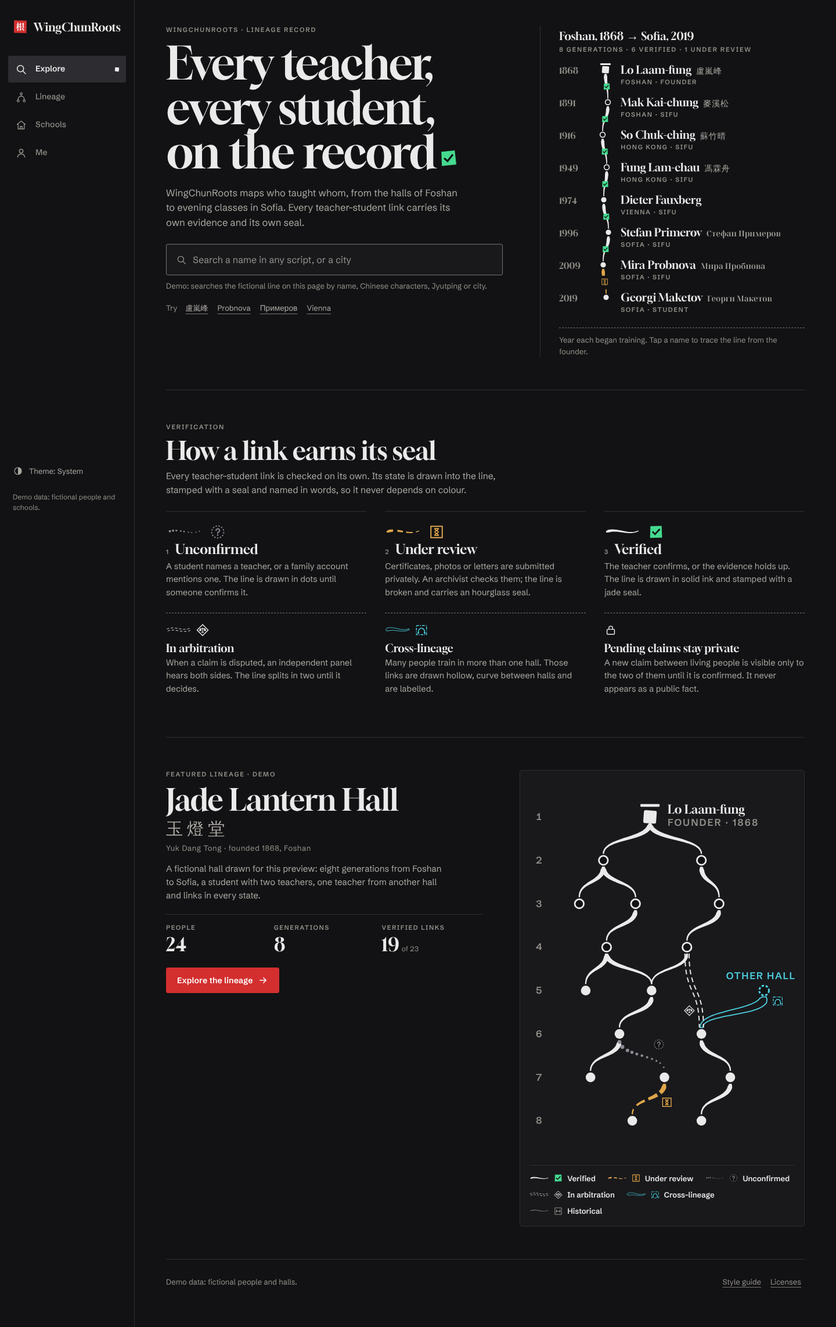
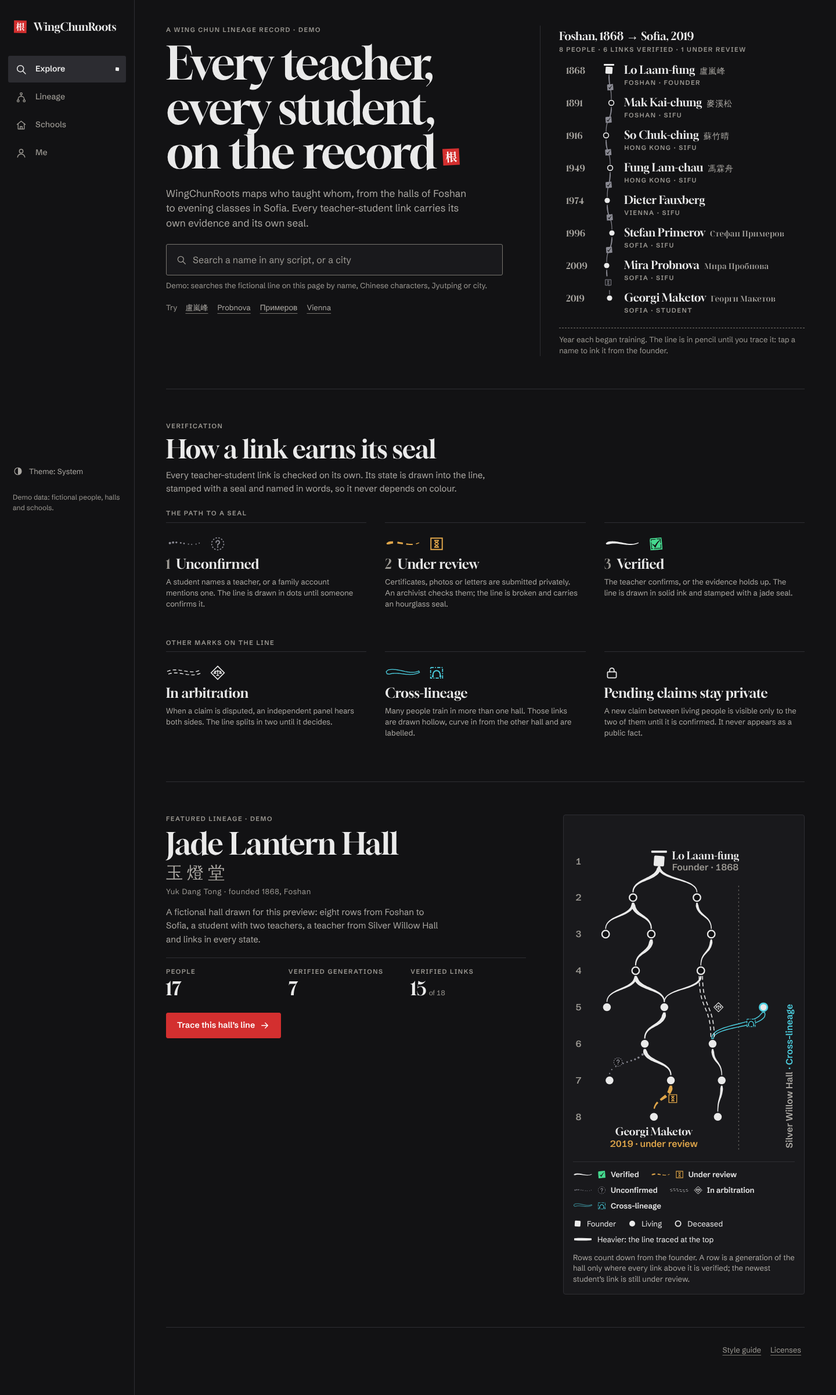
docs(m00b): ADRs, guides, direction and owner question after review
ADR 0006 records the type and space scales, the new roles, the seal
chop, the pencil draft and ink trace, the sheet presentations, dialog,
toast and danger button, the Lighthouse script that replaced lhci, the
notices sources, the ESLint boundaries, INP deferred to M05 and the
deviations the review raised. ADR 0001, the README, both Bulgarian
guides and direction.md follow. Question 3 asks the owner about the
style guide budget, devtools throttling and the theme without
JavaScript. Screenshots regenerated.

Claude-Session: https://claude.ai/code/session_01STyQUAPRBBmWDHTxvJbxAV

diff --git a/docs/adr/0006-design-system.md b/docs/adr/0006-design-system.md
@@ -14,7 +14,11 @@ M00b превежда избраната дизайн посока в токен
 
 ## Решение
 
-1. **Един източник на токените.** `src/design/tokens.ts` описва семантичните роли от план §5.2 за двете теми и ролите, които посоката добавя (`fg-subtle`, `fg-inverse`, `on-brand`, `on-verified`, `arbitration`, `danger`), плюс приглушените тонове (план §4.7), печатните токени, шрифтовете, размерно съгласуваните резервни шрифтове, типографската скала, радиусите, мерките на обвивката, движението и стила на връзките по състояние. `pnpm tokens:build` (`scripts/build-tokens.ts` → `src/design/build.ts`) пише:
+1. **Един източник на токените.** `src/design/tokens.ts` описва семантичните роли от план §5.2 за двете теми и ролите, които посоката добавя (`fg-subtle`, `fg-inverse`, `on-brand`, `on-verified`, `arbitration`, `danger`, а след първия преглед и `surface-pressed`, `ink-hover`, `brand-pressed` за натиснатите и посочените състояния), плюс приглушените тонове (план §4.7), печатните токени, шрифтовете, размерно съгласуваните резервни шрифтове, типографската скала, пространството, радиусите, мерките на обвивката, движението и стила на връзките по състояние.
+
+   - **Типографска скала:** 15 стъпки — `caption` 11, `label` 12, `xs` 12, `sm` 13, `ui` 14, `base` 15, `field` 16 (полетата, за да не увеличава iOS страницата), `md` 17, `lg` 19, `xl` 23, `2xl` 28, `3xl` 32 px (числата в Gloock) и три плавни за заглавията (`section`, `feature`, `hero`). Произволни размери на текста (`text-[…px]`, `text-[…rem]`) в `src/app` и `src/components` са забранени; `scripts/verify.d/M00b.sh` ги търси. Единственото изключение е размерът спрямо заглавието (`em`), например печатът в края на заглавието на началната страница.
+   - **Пространство:** единица 4 px (`--spacing` на Tailwind), полета на страницата 16 px на телефон и 40 px от 768 px (`px-page`, никога по-малко от безопасната зона отляво и отдясно) и ритъм на секциите 40/56 px (`py-section`, `md:py-section-desktop`). Всичко това е и в `tokens.json` (`space`).
+   - **Печат и вариантът `dark:`** също идват от генератора: блокът `@media print` в `tokens.css` слага светлата тема и печатните токени върху всеки селектор на тема (и когато е избрана тъмната), а `@custom-variant dark` следва темата по подразбиране (`DEFAULT_THEME`). Шрифтът `mono` е в `fontFamilies`. `pnpm tokens:build` (`scripts/build-tokens.ts` → `src/design/build.ts`) пише:
    - `src/design/generated/tokens.css`: oklch с hex в коментар, двете теми (`:root`, `prefers-color-scheme`, `[data-theme]`, `.theme-dark`/`.theme-light` за панел в другата тема) и `@theme inline` за Tailwind 4.3.3, в който палитрата, шрифтовете, размерите, радиусите и сенките на Tailwind са изчистени: съществуват само семантичните токени;
    - `src/design/generated/tokens.json`: за бъдещото мобилно приложение (план §6.8), с изчислените съотношения на контраста.
 
@@ -25,14 +29,16 @@ M00b превежда избраната дизайн посока в токен
 
    | Състояние | Щрих | Печат | Текст |
    |---|---|---|---|
-   | Потвърдено | плътен, в мастило (`--fg`) | отметка в нефрит | „Verified“ |
+   | Потвърдено | плътен, в мастило (`--fg`) | нефритен печат, натиснат леко накриво, с ръб, „попил“ в хартията, и отметка с четка, издълбана в него (негатив); при 20 px и повече и издълбана рамка | „Verified“ |
    | В преглед | накъсан | пясъчен часовник | „Under review“ |
    | Непотвърдено | пунктир от точки | „?“ | „Unconfirmed“ |
    | Арбитраж | двоен | везни | „In arbitration“ |
    | Учител от друга линия | куха крива; очертанието носи пунктира на състоянието ѝ (потвърдената е плътна), а в тънък щрих (`--link-cross-lineage-dash`) е `9 3 2 3` | мост | „Cross-lineage“ |
    | Приключило обучение | тънък плътен | точка | „Historical“ |
 
-   Щрихът на всяко състояние е в неговия цвят, освен потвърденото: то се рисува в мастило, а цвета носи печатът (`strokeColor` в `linkStyles`; Ink Lineage). Легендата (`src/components/ink/legend.tsx`) рисува същите щрихи като дървото и е винаги видима, където има връзки.
+   Щрихът на всяко състояние е в неговия цвят, освен потвърденото: то се рисува в мастило, а цвета носи печатът (`strokeColor` в `linkStyles`; Ink Lineage). Легендата (`src/components/ink/legend.tsx`) рисува същите щрихи като дървото, показва само състоянията, които рисунката до нея ползва (`legendKinds`), и е винаги видима, където има връзки.
+
+   **Приглушаване** (план §4.7, никога с прозрачност). Печатът има `tone="dim"`: същата форма в плътния приглушен тон (`--dim-stroke`), без цвета на състоянието. Линията на началната страница е „чернова с молив“, докато човек не я проследи: тънки щрихи в приглушения тон със същия рисунък и „призрачни“ печати. Проследяването я изписва с мастило от основателя до избрания човек — щрих по щрих, после всеки печат в цвета на състоянието си. Редовете след избрания остават в черновата и слизат с един тон надолу (`ROW_TONE_ROLES` в `trace-line.tsx`: годината от `fg-muted` към `fg-subtle`, името от `fg` към `fg-muted`), така че приглушен ред никога не е по-ярък от активен (`trace-line.test.ts`). Избраният ред има мастилена черта 3 px отляво, по-голям възел и `aria-current`.
 5. **Шрифтове** (план §5.3), самостоятелно хостнати през `next/font/local` от пакетите `@fontsource` (SIL OFL 1.1), едно извикване на подмножество, така че всеки `@font-face` има свой `unicode-range` и браузърът тегли подмножество само ако страницата има знак от него (`src/design/fonts.ts`):
 
    | Употреба | Шрифт | Файлове (woff2) | Зареждане |
@@ -44,16 +50,25 @@ M00b превежда избраната дизайн посока в токен
 
    Резервните шрифтове `Gloock Fallback` и `Schibsted Grotesk Fallback` са местни системни шрифтове с `size-adjust` и `ascent/descent/line-gap-override`, изчислени от файловете на шрифтовете (`src/design/fonts.test.ts` ги преизчислява с fontkit на Next.js), за да няма разместване (CLS), докато уеб шрифтовете се зареждат. Най-малкият надпис е 11 px (`MIN_LABEL_PX`); поколенията и годините са с арабски, таблични цифри.
 6. **Теми.** Тъмната е по подразбиране; страницата следва `prefers-color-scheme`, докато човек не избере ръчно. Изборът е в бисквитката `wcr-theme` (`dark` или `light`; без бисквитка значи „като системата“), година, `SameSite=Lax`. Малък вграден скрипт в `<head>` (`THEME_SCRIPT` в `src/design/theme.ts`) слага `data-theme` на `<html>` и насочва двата `<meta name="theme-color">` към избраната тема, преди първото изрисуване. `color-scheme` е зададен за всяка тема, а `viewport.colorScheme` е `dark light`.
-7. **Компоненти.** shadcn/ui върху Base UI 1.9.0 (`components.json`, стил `base-nova`), оформени по посоката, в `src/components/ui/`: Button, Input, Dialog, Drawer (долен панел с надникване 96 px, половин и цял екран, влачене за цялото тяло и бутони „Expand“/„Collapse“/„Close“ като алтернатива), Menu, Tabs, Toast, Skeleton, StatusBadge и TrailChip. Навсякъде `render`, никога `asChild` (`scripts/verify.d/M00b.sh` го проверява). Отворен панел или диалог добавя запис в историята (`use-back-to-close.ts`), затова бутонът „Назад“ на Android затваря най-горния слой. `/styleguide` (`noindex`) показва токените и компонентите в двете теми.
+7. **Компоненти.** shadcn/ui върху Base UI 1.9.0 (`components.json`, стил `base-nova`), оформени по посоката, в `src/components/ui/`: Button, Input, Dialog, Drawer (долен панел на телефон, страничен панел вдясно от 768 px; виж т. 7а), Menu, Tabs, Toast, Skeleton, StatusBadge и TrailChip. Button има вариант `danger` за разрушителни действия (рамка и надпис в `--danger`, не в червеното на марката) и натиснат тон за всеки вариант, една стъпка след посочения. Toast е „листче“ върху `surface-2` с черта 3 px в цвета на вида (`verified`, `under_review`, `info`), печат за състоянието и 10 s до затваряне (паузира при посочване, фокус и докосване). Dialog е центриран от 640 px, с линия под заглавието; когато е по-висок от екрана, превърта целият изглед, така че заглавието и „Close“ остават достъпни. Менюто се рисува в `<main>`, за да остане всичко в ориентир (axe „region“). Навсякъде `render`, никога `asChild` (`scripts/verify.d/M00b.sh` го проверява). Отворен панел или диалог добавя запис в историята (`use-back-to-close.ts`), затова бутонът „Назад“ на Android затваря най-горния слой. `/styleguide` (`noindex`) показва токените и компонентите в двете теми.
 8. **Обвивка** (`src/components/shell/`). Телефон: горна лента (56 px) и четири раздела долу (64 px плюс безопасната зона): Explore, Lineage, Schools, Me. Компютър: странична лента 232 px. `viewport-fit=cover` и `env(safe-area-inset-*)`, `min-h-dvh` (никъде `100vh` или `h-screen`), цели за докосване поне 44×44 px, нищо само при посочване, връзка „Skip to content“. Разделите на бъдещите маршрути (`/explore`, `/schools`, `/dashboard`) засега водят до страницата „not drawn yet“ (404) и не се зареждат предварително.
 9. **Движение.** 150/200/250 ms с `ease-out`; проследяването с мастило до основателя върви само след докосване, по 110 ms на поколение и общо до 1 s, и никога не спира въвеждането. Нищо не тръгва само. При `prefers-reduced-motion: reduce` всички продължителности са 0 ms.
+7а. **Долен и страничен панел (Drawer).** На телефон модалният панел (по подразбиране) се отваря на половин височина, където се вижда затъмнението зад него; спира на половин и цял екран (`MODAL_SNAP_POINTS`). Затъмнението е плътно на всяка точка на спиране и избледнява само при отваряне и затваряне. Немодалният панел (над карта или граф) се отваря „надникнал“: поне 96 px и никога по-нисък от собствената си заглавна част, така че заглавие на два реда при 150 % текст се вижда цяло; спира на надникване, половин и цял екран (`PEEK_SNAP_POINTS`). Той стои над долните раздели, които пазят безопасната зона, така че навигацията остава достъпна, а докато надниква, тялото му е `inert` и клавиатурата не стига до съдържание извън екрана. Влаченето е за цялото тяло; „Expand“/„Collapse“ и „Close“ са алтернативата. Всяко отваряне започва от първата точка. От 768 px същият компонент е страничен панел вдясно, широк `--sheet-w` (420 px) и висок колкото прозореца, който се плъзга надясно; това е мястото, където M05 ще показва доказателствата (Living Archive).
 10. **Бюджети и автоматични проверки.**
-    - `scripts/check-bundle-budget.mjs` след `next build`: първоначално зареденият JavaScript на всеки маршрут, gzip, ≤ 170 kB (1 kB = 1000 байта). Брои основните файлове от `build-manifest.json` и всички клиентски входове на маршрута от `*_client-reference-manifest.js` без страницата за глобална грешка и проверява срещу `<script src>` в предварително рендерирания HTML, така че промяна в манифестите на Next.js не може незабелязано да намали броенето. Към 17.10.2026: `/` 159,7 kB, `/legal/licenses` и `/_not-found` 147,7 kB, `/styleguide` 238,9 kB от своите 250 kB.
-    - Lighthouse CI (`@lhci/cli` 0.15.1, `lighthouserc.json`) за `/` в мобилен профил, три пускания, медианата: LCP < 2,5 s и CLS < 0,1. `scripts/verify.d/M00b.sh` пуска собствен `next start` и печата LCP и CLS.
-    - `e2e/routes.ts` е списъкът на страниците; `e2e/a11y.spec.ts` пуска axe на всяка от тях в двете теми.
-    - Визуална регресия (`e2e/visual.spec.ts`, таг `@visual`, проект `visual`) за `/` и `/styleguide` при 390×844 и 1440×900 в двете теми. Върви само в CI, където Chromium е точно версията на закачения Playwright. Базовите снимки са в `e2e/__screenshots__/visual.spec.ts/*-linux.png` и се сменят само с commit (`docs/guides/admin-guide.bg.md`, „Визуална регресия“).
+    - `scripts/check-bundle-budget.mjs` след `next build`: първоначално зареденият JavaScript на всеки маршрут, gzip, ≤ 170 kB (1 kB = 1000 байта). Брои основните файлове от `build-manifest.json` и всички клиентски входове на маршрута от `*_client-reference-manifest.js` без страницата за глобална грешка и проверява срещу `<script src>` в предварително рендерирания HTML, така че промяна в манифестите на Next.js не може незабелязано да намали броенето. Към 17.10.2026 (след първия преглед): `/` 161,5 kB, `/legal/licenses` и `/_not-found` 146,4 kB, `/styleguide` 240,5 kB от своите 250 kB.
+    - Lighthouse 13.4.1 за `/` в мобилен профил (`scripts/lighthouse.mjs` с `chrome-launcher` 1.2.1; праговете са в `lighthouserc.json`), три пускания, медианата: LCP < 2,5 s и CLS < 0,1. `scripts/verify.d/M00b.sh` и CI пускат собствен `next start` и печатат LCP и CLS. Скриптът замени `@lhci/cli` 0.15.1: последното му издание е от юни 2025, заключва Lighthouse 12.6.1 и внасяше в дървото за разработка осем известни уязвимости (пет високи), които `pnpm audit --prod` не вижда. `lighthouse` 13.4.1 изисква `puppeteer-core` с уязвим `basic-ftp`; `pnpm-workspace.yaml` го насочва към `puppeteer-core` 25.12.0 (`overrides`), който Lighthouse ползва само за потребителски потоци, не и за един URL.
+    - INP (план §5.8 (в)) още не се мери: в M00b няма ключово взаимодействие с данни, а панелът и проследяването са демонстрации. Тестът с web-vitals и 4× забавяне на процесора идва в M05 с изследователя и истинския панел на човек.
+    - `e2e/routes.ts` е списъкът на страниците; `e2e/a11y.spec.ts` пуска axe на всяка от тях в двете теми. `e2e/ui.spec.ts` пуска axe и с отворени диалог, панели, меню и toast, и проверява поведението, което няма как да се види на снимка: „Назад“ затваря диалога и панела, без да оставя запис в историята, надникването и тялото `inert`, затъмнението на модалния панел, страничния панел от 768 px, текст при 150 % (редовете, разделите, заглавието на панела), полетата поне 16 px, нито един надпис под 11 px на `/` от 320 px до компютър (рисунката на залата също), връзката „Skip to content“ над безопасната зона, раздела Lineage след хидратация и проследяването с мастило (и при намалено движение).
+    - Шрифтовете (`e2e/smoke.spec.ts`): предварително се зареждат точно двата latin файла; Noto Serif Display се тегли веднъж на `/` (има кирилско име) и изобщо не на `/legal/licenses`.
+    - Визуална регресия (`e2e/visual.spec.ts`, таг `@visual`, проект `visual`) за `/` и `/styleguide` при 390×844 и 1440×900 в двете теми. Китайските знаци (системни шрифтове, различни на различните машини) и текстът на подсказките стават прозрачни чрез `stylePath` (`e2e/visual.css`), вместо да се закриват с маска, която закриваше и долните раздели. Върви само в CI, където Chromium е точно версията на закачения Playwright. Базовите снимки са в `e2e/__screenshots__/visual.spec.ts/*-linux.png` и се сменят само с commit (`docs/guides/admin-guide.bg.md`, „Визуална регресия“).
     - `@screenshots` (`pnpm screenshots`) записва `docs/screenshots/M00b/`.
-11. **Лицензи.** `pnpm notices` (`scripts/generate-notices.ts`) генерира `THIRD_PARTY_NOTICES.md` и `src/app/legal/licenses/notices.json` от `pnpm licenses list --json --prod` и от файловете в `licenses/addenda/`; CI проверява, че са актуални (`--check`). Страницата `/legal/licenses` ги показва.
+11. **Лицензи.** `pnpm notices` (`scripts/generate-notices.ts`, помощните функции в `scripts/lib/notices.ts` с тестове) генерира `THIRD_PARTY_NOTICES.md` и `src/app/legal/licenses/notices.json`; CI проверява, че са актуални (`--check`). Източниците са три:
+    - `pnpm licenses list --json --prod`;
+    - пакетите за разработка, чийто генериран код стига до браузъра (`SHIPPED_BUILD_OUTPUT`: `tailwindcss` — preflight и слоевете му са във всеки CSS файл, а production сборката маха банера с лиценза);
+    - файловете в `licenses/addenda/`: за пакети, които `--prod` пропуска, защото са незадължителни (`optionalDependencies`). Такъв е `sharp` на Next.js с двоичния `libvips` (LGPL-3.0-or-later). Генераторът спира, ако заглавието на добавката не съвпада с версиите в lockfile-а.
+
+    Еднаквите текстове на лицензи се пазят веднъж и всеки пакет сочи към своя („Licence text N“, „Used by“). Страницата е 0,9 MB HTML (114 KB gzip) вместо 1,06 MB, а връзките към нея и към `/styleguide` не се зареждат предварително (`prefetch={false}`). Начална страница на пакет се показва като връзка само ако е `http` или `https`.
+12. **Граници в ESLint.** `@base-ui/react` само в `src/components/ui/`; `tailwind-merge` (`@/lib/utils`) не и в кода, който се зарежда на всяка страница (обвивката, началната страница, мастилото); `next/font/google` е забранен, а `src/design/` е без React и Next.js (освен `fonts.ts` и `theme.ts`). Tailwind сканира само `src/` (`@import 'tailwindcss' source('../')`), без `notices.json`, а `scripts/verify.d/M00b.sh` проверява, че в готовия CSS няма `100vh`.
 
 ## Отклонения
 
@@ -64,7 +79,8 @@ M00b превежда избраната дизайн посока в токен
 | `--verified` | планът: `#00E676`; прототипът: червен печат | нефритено `#45D98F` (тъмна), `#0A6E43` (светла) | Червеното остава за марката и основното действие; `#00E676` е крещящо до спокойната палитра. Ролята и контрастът (10,31:1 и 5,30:1) са запазени. Отворен въпрос към собственика |
 | `--review` | `#F5B83D` | `#E0A64A` (тъмна), `#7C5300` (светла) | По-топъл охрен тон до нефрита; 8,66:1 и 5,69:1 |
 | `--fg-muted`, `--surface-1`, `--surface-2`, `--surface-3`, `--border-*` | `#A1A1AA`, `#1C1C1F`, `#2A2A2E`, `#34343A`, `#3A3A40`, `#76767F` | `#ABA8A3`, `#19191C`, `#222226`, `#2C2C31`, `#2E2E33`, `#78756F` | Топло сиво „мастило“ вместо студено; всяка двойка минава праговете (виж `tokens.json`) |
-| `--fg-subtle` | няма | `#94918B` / `#64615C` | Надписи и редове с мета данни; ≥ 4,5:1 върху фона и двете повърхности |
+| `--fg-subtle` | няма | `#9C9993` / `#64615C` | Надписи и редове с мета данни; ≥ 4,5:1 върху фона, двете повърхности и `surface-3` (посочен ред) |
+| `--danger` | „грешки“ | `#FF8AB8` / `#9B1B5A` | Розово-винен тон, поне 25° по оттенък от червеното на марката, така че грешка до основния бутон не се чете като „още червено“; винаги и със знака × и текст |
 | `--brand-fg` | „червен текст, връзки и икони“ | само акценти в марката | Червеното не е връзка и не е избор |
 | Светла тема | от печатните токени (`--paper` `#FDFBF7`) | фон `#EDEBE5` („оризова хартия“), повърхности до `#FFFDF9` | Картите и панелите трябва да се отличават от фона; печатните токени са непроменени |
 | Радиус | 10 px | 2–6 px, горният ръб на долния панел 18 px | Остри ъгли „като на хартия“ от прототипа |
@@ -74,6 +90,9 @@ M00b превежда избраната дизайн посока в токен
 | shadcn CLI | `pnpm dlx shadcn@4.21.5 init -b base` | `components.json` и компонентите са написани ръчно по раздела Base UI на документацията на shadcn | `ui.shadcn.com` е недостъпен от облачната среда (проксито отказва връзката), а CLI-то тегли регистъра оттам |
 | Превключвател на темата | меню | роден `<select>` върху иконата (телефон) или реда „Theme: …“ (компютър) | Платформеният избор работи най-добре на телефон и в webview, без JavaScript за меню в обвивката (бюджетът) |
 | Toast и Menu | доставчикът на Toast и менюто на темата в обвивката | доставчикът е в страницата, която го ползва; темата е роден `<select>` | Кодът на Base UI за Toast и Menu в обвивката се зареждаше на всеки маршрут и го изкарваше над бюджета от 170 kB |
+| Основното действие на началната страница | „Explore the lineage“ → `/explore` | „Trace this hall’s line“ проследява линията горе на страницата; без JavaScript е връзка към нея (`#demo-line`) | `/explore` е изследователят (M05, план §5.5) и засега е страницата „not drawn yet“. Червено действие, което води до задънена улица, е най-видимият знак за недовършен сайт. Разделът Lineage остава `/explore`; той става текущ след хидратация на страницата „not drawn yet“ |
+| Тема без JavaScript | „сървърът рендерира избора“ | без JavaScript страницата следва системата и изборът не действа | Следва от реда „Тема без премигване“. Заглавието на теста от „Кога е готово“ не е сменено; отклонението е въпрос 3 в `questions/M00b.md` |
+| Два `theme-color` | — | остават двата `<meta>` на React с `media`; скриптът сменя само `content` | Друг подход променя проверките от „Кога е готово“ (тестът чете `theme-color` при първото изрисуване). Цветът на браузъра е верен; ще се преразгледа, ако някой браузър покаже грешен |
 | `cn()` | `clsx` + `tailwind-merge` навсякъде | `cx` (само `clsx`) в обвивката и началната страница; `cn` в `src/components/ui/` | `tailwind-merge` е около 10 kB gzip; кодът, който се зарежда навсякъде, не смесва конфликтни класове |
 | Lighthouse | симулирано забавяне (Lantern) | `throttlingMethod: devtools` (бавен 4G, 4× CPU, мобилен профил) | Lantern изчислява LCP 2,78 s на localhost: песимистичният граф брои async скриптовете, които при реалното изрисуване вече са приключили. С приложеното забавяне LCP е около 1,7–1,8 s, а CLS 0. Прагът (2,5 s) не е променен |
 | Бюджет на `/styleguide` | 170 kB | 250 kB | Страница за разработчици и прегледа на дизайна с `noindex`, която показва всички изскачащи компоненти наведнъж. Не е маршрут със съдържание (план §5.8 (в)) |
@@ -93,12 +112,14 @@ M00b превежда избраната дизайн посока в токен
 | `@fontsource/gloock` | 5.3.0 | OFL-1.1 | Шрифтът за имена и заглавия |
 | `@fontsource-variable/schibsted-grotesk` | 5.3.0 | OFL-1.1 | Шрифтът на интерфейса |
 | `@fontsource/noto-serif-display` | 5.3.0 | OFL-1.1 | Кирилицата в заглавията |
-| `@lhci/cli` | 0.15.1 | Apache-2.0 | Lighthouse CI (Lighthouse 12.6.1) за LCP и CLS на `/` (план §5.8 (в)); само за разработка |
+| `lighthouse` | 13.4.1 | Apache-2.0 | LCP и CLS на `/` в мобилен профил (план §5.8 (в)) чрез `scripts/lighthouse.mjs`; само за разработка. Замени `@lhci/cli` 0.15.1 (виж т. 10) |
+| `chrome-launcher` | 1.2.1 | Apache-2.0 | Пуска Chromium за `scripts/lighthouse.mjs` (в облачната сесия: `PW_CHROMIUM_EXECUTABLE`); само за разработка |
 
 ## Отворени въпроси към собственика
 
 1. **Посоката.** Ink Register или друга посока или смесица. Докато няма отговор, важи Ink Register.
 2. **Цветът на „Verified“.** Нефритено зелено (по подразбиране), червен печат като в прототипа (тогава червеното значи и марка, и потвърдено) или `#00E676` от плана. И трите минават контраста; статусът винаги има и форма, и текст.
+3. **Бюджетите и темата без JavaScript.** Бюджетът от 250 kB за `/styleguide`, Lighthouse с `devtools` вместо симулирано забавяне и темата, която без JavaScript следва системата (`questions/M00b.md`, въпрос 3).
 
 ## Решения по подразбиране
 
@@ -111,8 +132,11 @@ M00b превежда избраната дизайн посока в токен
 - Радиусите са 2–6 px; панелите 18 px.
 - Иконите са собствени SVG (`src/components/icons.tsx`), без библиотека с икони.
 - Шрифтовете идват като npm пакети (заключени в lockfile-а), не като копирани файлове.
-- Lighthouse с `devtools` забавяне, три пускания, медиана.
-- Бюджетът на `/styleguide` е 250 kB; 1 kB = 1000 байта.
+- Lighthouse с `devtools` забавяне, три пускания, медиана (въпрос 3 към собственика).
+- INP се мери от M05.
+- Модалният панел се отваря на половин височина; надникването е само за немодален панел.
+- Основното действие на началната страница проследява линията, докато изследователят (M05) не съществува.
+- Бюджетът на `/styleguide` е 250 kB; 1 kB = 1000 байта (въпрос 3 към собственика).
 - Разделите на бъдещите маршрути водят до страницата „not drawn yet“.
 - Знакът на активния раздел в навигацията и крайната спирка на основателя са в мастило (`--fg`), не в червено.
 - Базовите снимки на визуалната регресия идват само от CI.

diff --git a/docs/guides/user-guide.bg.md b/docs/guides/user-guide.bg.md
@@ -8,7 +8,7 @@
 
 WingChunRoots записва кой на кого е преподавал Wing Chun. В основата е мрежа от връзки „учител — ученик“: един ученик може да има няколко учители, а всяка връзка се проверява отделно и носи собствени доказателства и собствен печат. Около тази мрежа ще има търсачка на школи с карта и тренировъчен паспорт за изпити, сертификати и семинари.
 
-Сайтът е в първата фаза: пилот за пълнолетни, който работи само локално. Всички хора, зали и школи, които виждате сега, са **измислени** демо данни (долу на началната страница пише „Demo data: fictional people and halls.“).
+Сайтът е в първата фаза: пилот за пълнолетни, който работи само локално. Всички хора, зали и школи, които виждате сега, са **измислени** демо данни (на телефон долу на началната страница, а на компютър в страничната лента пише „Demo data: fictional people, halls and schools.“).
 
 ## Как се отваря сайтът
 
@@ -47,21 +47,23 @@ WingChunRoots записва кой на кого е преподавал Wing C
 
 ### 1. Тезата и демо линията
 
-Заглавието „Every teacher, every student, on the record“ и кратко обяснение. До него (на телефон под него) е **демо линия**: осем поколения на една измислена зала, от основателя във Foshan до ученик в София, всяко със своя връзка към предишното.
+Заглавието „Every teacher, every student, on the record“ (завършва с печата на сайта) и **демо линия**: осем поколения на една измислена зала, от основателя във Foshan до ученик в София, всяко със своя връзка към предишното. На телефон линията е веднага под заглавието, а обяснението и търсенето са след нея; на компютър линията е вдясно.
+
+Докато не изберете човек, линията е **„чернова с молив“**: тънки сиви линии със същия рисунък (плътна, накъсана, от точки) и бледи печати. Така се вижда цялата линия, без нищо да е подчертано.
 
 - **Търсене:** в полето „Search a name in any script, or a city“ пишете име на латиница, на китайски или на кирилица, или град. Под полето има примери, които се натискат. Enter проследява първия резултат, а Esc изчиства полето.
-- **Проследяване до основателя:** натиснете име от линията. Пътят от основателя до този човек се „изписва с мастило“ поколение по поколение (до една секунда), а редовете след него се приглушават. Под линията пише колко от връзките по пътя са потвърдени.
+- **Проследяване до основателя:** натиснете име от линията. Пътят от основателя до този човек се „изписва с мастило“ поколение по поколение (до една секунда): всяка линия става плътна и дебела, а след нея се „удря“ печатът на състоянието ѝ в своя цвят. Избраният ред е отбелязан с черта отляво и по-голяма точка; редовете след него остават в черновата и с по-бледи надписи. Под линията пише колко от връзките по пътя са потвърдени. При намалено движение линията се показва изписана веднага.
 - **Back to <име>:** чипът връща към предишния проследен човек; **Clear** изчиства проследяването.
 
 ### 2. Как връзката получава печата си („How a link earns its seal“)
 
-Всяка връзка „учител — ученик“ се проверява отделно. Състоянието ѝ се вижда по три начина едновременно, а не само по цвят: по линията, по печата и по надписа.
+Всяка връзка „учител — ученик“ се проверява отделно. Състоянието ѝ се вижда по три начина едновременно, а не само по цвят: по линията, по печата и по надписа. Частта има две групи: **The path to a seal** — трите стъпки, номерирани 1–3, през които минава всяка връзка, и **Other marks on the line** — другите знаци, които може да срещнете.
 
 | Надпис | Линия | Печат | Значение |
 |---|---|---|---|
 | Unconfirmed | пунктир от точки | „?“ | Връзката е посочена, но още не е потвърдена от учителя или с доказателства |
 | Under review | накъсана линия | пясъчен часовник | Има подадени доказателства и архивист ги проверява |
-| Verified | плътна линия | отметка | Потвърдена от учителя или с доказателства, които издържат проверката |
+| Verified | плътна линия | нефритен печат с издълбана отметка | Потвърдена от учителя или с доказателства, които издържат проверката |
 | In arbitration | двойна линия | везни | Спорна връзка; независим състав изслушва двете страни |
 | Cross-lineage | куха извита линия | мост | Учител от друга линия (зала) |
 
@@ -69,11 +71,13 @@ WingChunRoots записва кой на кого е преподавал Wing C
 
 ### 3. Избрана линия
 
-Измислената зала **Jade Lantern Hall** (玉燈堂): колко души, поколения и потвърдени връзки има, малка рисунка на дървото ѝ и **легенда**, която обяснява линиите и печатите. Бутонът **Explore the lineage** ще отваря изследователя (от следващ етап; засега води до „This page is not drawn yet“).
+Измислената зала **Jade Lantern Hall** (玉燈堂) и три числа: **People** (17 души), **Verified generations** (7 — поколение се брои само по потвърдени връзки от основателя) и **Verified links** (15 от 18). До тях е малка рисунка на дървото ѝ: редовете са номерирани от основателя надолу, по-дебелата линия е същата линия като горе на страницата, а вдясно, в отделна ивица с надпис **Silver Willow Hall · Cross-lineage**, е учител от друга зала. Под рисунката **легендата** обяснява линиите и печатите, които рисунката ползва, и знаците за хората: квадрат за основателя, плътна точка за жив човек и кръгче за починал.
+
+Бутонът **Trace this hall’s line** връща горе към демо линията и я проследява от основателя до най-новия ученик. Изследователят на линиите идва в следващ етап; дотогава разделът **Lineage** води до страницата „This page is not drawn yet“.
 
 ### 4. Долу на страницата
 
-Бележката, че данните са измислени, и две връзки: **Style guide** (страница за разработчици и за прегледа на дизайна) и **Licenses** (виж по-долу).
+На телефон бележката, че данните са измислени (на компютър тя е в страничната лента), и две връзки: **Style guide** (страница за разработчици и за прегледа на дизайна) и **Licenses** (виж по-долу).
 
 ## Имена на различни писмености
 

diff --git a/docs/design/direction.md b/docs/design/direction.md
@@ -36,8 +36,8 @@ PR на M00b не се слива, докато собственикът не п
 | Откъде | Какво взима | Къде е в кода |
 |---|---|---|
 | Ink Lineage | Токените „мастило, хартия, печат“ (същите като план §5.2), серифен шрифт за имената (Gloock), шрифт за интерфейса (Schibsted Grotesk), статусът, нарисуван в щриха и подпечатан с печат, проследяването до основателя, което се „изписва“ с мастило след докосване | `src/design/tokens.ts`, `src/design/fonts.ts`, `src/components/ink/`, началната страница |
-| Living Archive | Карти с фиксиран размер за ELK, текстов надпис на всяка връзка от фокусирания път, лента „Gen ?“, чипове за връзки извън екрана, панел, който започва с доказателствата | M05 и M06 (изследователят); в M00b само токените, които тези елементи ще ползват |
-| Transit Map | Долният панел с 96 px надникване; крайната спирка към основателя („↑ Gen 1 · <име>“) | `src/components/ui/drawer.tsx` (`PEEK`), крайната спирка на началната страница |
+| Living Archive | Карти с фиксиран размер за ELK, текстов надпис на всяка връзка от фокусирания път, лента „Gen ?“, чипове за връзки извън екрана, панел, който започва с доказателствата, съдържание под надникването, което е `inert` | M05 и M06 (изследователят); в M00b страничният панел от 768 px и `inert` при надникване (`src/components/ui/drawer.tsx`) |
+| Transit Map | Долният панел с надникване от поне 96 px (за немодален панел над карта или граф; модалният се отваря на половин височина); крайната спирка към основателя („↑ Gen 1 · <име>“) | `src/components/ui/drawer.tsx` (`PEEK`), крайната спирка на началната страница |
 | Constellation | Винаги видимата легенда; чипът „Back to <name>“, който връща по историята на фокуса | `src/components/ink/legend.tsx`, `src/components/ui/trail-chip.tsx` |
 
 ## Решения
@@ -45,13 +45,13 @@ PR на M00b не се слива, докато собственикът не п
 1. **Палитра.** Тъмната тема е „нощна хартия“: черен лак (`#121214`) с топло сиво мастило (`#EAEAEA`). Светлата тема е „оризова хартия“ (`#EDEBE5`) с лампово черно мастило (`#161618`). Тъмната е по подразбиране; темата следва системата, докато човек не избере ръчно.
 2. **Червеното е само за марката и основното действие.** Печатът на марката (`--brand`) и основният бутон. Червеното не означава „потвърдено“, не е избор, не е връзка и не е грешка (грешките са в отделен тон `--danger`).
 3. **„Verified“ не е червено.** Прототипът Ink Lineage рисува потвърдения печат в червено, а план §5.2 иска зелено (`#00E676`). По подразбиране потвърденото е нефритено зелено (`#45D98F` в тъмната тема, `#0A6E43` в светлата): по-спокойно от `#00E676`, със същата роля като в плана и различно от червения печат. Това е отворен въпрос към собственика ([`questions/M00b.md`](../plan/questions/M00b.md), ADR 0006).
-4. **Статусът никога само с цвят.** Всяко състояние има щрих, печат и текст: потвърдено — плътен щрих и печат с отметка; в преглед — накъсан щрих и пясъчен часовник; непотвърдено — пунктир от точки и „?“; арбитраж — двоен щрих и везни; учител от друга линия — куха крива с надпис „Cross-lineage“. Легендата е винаги видима.
-5. **Приглушаване само с плътни тонове** (план §4.7): `--unconfirmed` за щрихите, `--border-strong` за рамките, `--fg-muted` за текста. Никога прозрачност.
+4. **Статусът никога само с цвят.** Всяко състояние има щрих, печат и текст: потвърдено — плътен щрих и нефритен печат, натиснат леко накриво, с издълбана отметка (не квадратче за отметка); в преглед — накъсан щрих и пясъчен часовник; непотвърдено — пунктир от точки и „?“; арбитраж — двоен щрих и везни; учител от друга линия — куха крива с надпис „Cross-lineage“. Легендата е винаги видима.
+5. **Приглушаване само с плътни тонове** (план §4.7): `--unconfirmed` за щрихите, `--border-strong` за рамките, `--fg-muted` за текста, а печатите с `tone="dim"` — същата форма без цвета на състоянието. Никога прозрачност. Непроследената линия е „чернова с молив“; проследяването я изписва с мастило, а приглушените редове слизат с един тон надолу, никога нагоре.
 6. **Шрифтове.** Gloock за имена, заглавия и числа; Schibsted Grotesk за интерфейса; Noto Serif Display за кирилица в заглавията (Gloock няма основна кирилица), зареждан само при нужда; системни CJK шрифтове за китайски. Всички се хостват от приложението. Най-малкият надпис е 11 px. Поколенията се пишат с арабски цифри.
 7. **Ъгли.** Остри, като на хартия: 2–6 px; долните панели имат мек горен ръб 18 px.
 8. **Движение.** Само след действие на човека, общо до 1 s, без нищо, което тръгва само. При „намалено движение“ всичко е мигновено.
 9. **Обвивка.** На телефон: горна лента и четири раздела долу (Explore, Lineage, Schools, Me); на компютър: странична лента. Безопасните зони (`env(safe-area-inset-*)`), `dvh`, цели за докосване поне 44×44 px, нищо само при посочване. Бутонът „Назад“ на Android затваря най-горния панел.
-10. **Началната страница.** Тезата („Every teacher, every student, on the record“), търсене в демо линията с мастилен „гръбнак“ до основателя, как връзката получава печата си („How a link earns its seal“) и една избрана линия. Всички хора и зали са измислени (D20).
+10. **Началната страница.** Тезата („Every teacher, every student, on the record“), търсене в демо линията с мастилен „гръбнак“ до основателя, как връзката получава печата си („How a link earns its seal“: „The path to a seal“ и „Other marks on the line“) и една избрана линия с бутон „Trace this hall’s line“. На телефон линията е веднага под заглавието, така че първият екран показва самия предмет. Всички хора и зали са измислени (D20).
 
 ## Как се сменя посоката
 

diff --git a/docs/plan/M00b-design-system.md b/docs/plan/M00b-design-system.md
@@ -82,3 +82,5 @@ M00. Изборът на собственика, записан в `docs/design/
 - 2026-10-17 09:50 — трети CI (e9f1279): минават 51 теста, включително мобилният WebKit; 8-те визуални снимки от лога са приети като базови за Linux (`scripts/visual-baselines.sh accept`, проверени размер и SHA-256, прегледани); маркери `DEFAULT D20` и `DEFAULT D24` (789a01c, c62ab3b)
 - 2026-10-17 09:55 — четвърти CI (c62ab3b): всички 59 E2E теста минават, включително визуалната регресия и мобилният WebKit; `checks:M00` пада, защото коментар в `src/design/fonts.ts` споменава забранения импорт. Коментарът е преформулиран, проверката е непроменена; местно `scripts/verify.sh M00b` и `M01` минават, всички `scripts/verify.d/*.sh` минават (8c04702)
 - 2026-10-17 10:05 — пети CI (8c04702): `VERIFY all: PASS` (lint, типове, unit, интеграционни тестове, целият E2E с мобилния WebKit и `@visual`, Lighthouse, бюджетите и всички `scripts/verify.d/*.sh`); местно `VERIFY M00b: PASS`, `VERIFY M00: PASS`, `VERIFY M01: PASS`; описанието на PR #8 е допълнено. PR остава чернова, докато собственикът не потвърди посоката
+- 2026-10-17 11:40 — първи кръг на прегледа (четири гледни точки, 5 високи, 28 средни и 29 ниски бележки): `lighthouse` 13.4.1 и `chrome-launcher` 1.2.1 вместо `@lhci/cli` (осем известни уязвимости в дървото за разработка), бележките за лицензите с `tailwindcss` и `sharp`/`libvips` и с всеки текст веднъж, нови граници в ESLint (34289d0); типографска скала и пространство в токените, натиснати тонове, печатът „Verified“ като издълбан печат, приглушени печати, скриването на „Skip to content“ над безопасната зона, `NavLinks` в `Suspense`, долен и страничен панел, диалог и toast по посоката (0fe1572); линията на началната страница веднага под заглавието на телефон, „чернова с молив“ и изписване с мастило, преработената рисунка на залата, „Trace this hall’s line“, `e2e/ui.spec.ts` с 12 нови проверки (92ce049)
+- 2026-10-17 12:01 — затъмнението на модалния панел е плътно на всяка точка на спиране (Base UI отчита `--drawer-swipe-progress` 1 на половин височина) и тестът проверява непрозрачността му; образците на шрифтовете в `/styleguide` показват всички 15 стъпки (липсващ клас спира сборката); ADR 0006, ADR 0001, ръководствата, `direction.md`, `README.md` и въпрос 3 към собственика (бюджетите и темата без JavaScript)

diff --git a/docs/guides/admin-guide.bg.md b/docs/guides/admin-guide.bg.md
@@ -119,7 +119,7 @@ scripts/verify.sh <етап>        # например scripts/verify.sh M00b
 
 ## 7. Лицензи
 
-`THIRD_PARTY_NOTICES.md` и страницата `/legal/licenses` се генерират от `pnpm notices` (от `pnpm licenses list --json --prod` и от бележките в `licenses/addenda/`). След промяна на зависимостите пуснете `pnpm notices` и включете промените в commit-а; CI проверява, че файловете са актуални.
+`THIRD_PARTY_NOTICES.md` и страницата `/legal/licenses` се генерират от `pnpm notices`: от `pnpm licenses list --json --prod`, от `tailwindcss` (пакет за разработка, чийто генериран CSS стига до браузъра) и от бележките в `licenses/addenda/`. Там са и пакетите, които `--prod` пропуска, защото са незадължителни, например `sharp` и `libvips` на Next.js (LGPL-3.0-or-later). Заглавието на такава бележка съдържа версиите; ако обновяване на Next.js смени версията на `sharp` в lockfile-а, `pnpm notices` спира с грешка, докато бележката не бъде обновена. Еднаквите текстове на лицензи се показват веднъж, а всеки пакет сочи към своя. След промяна на зависимостите пуснете `pnpm notices` и включете промените в commit-а; CI проверява, че файловете са актуални.
 
 ## 8. Проверки на качеството
 
@@ -130,7 +130,7 @@ scripts/verify.sh <етап>        # например scripts/verify.sh M00b
 | `pnpm e2e` | Playwright срещу `next start` на порт 3100 и worker-а (първо `pnpm build`); axe на всяка страница в двете теми |
 | `pnpm screenshots` | Снимките в `docs/screenshots/<етап>/` при 390×844 и 1440×900 в двете теми (първо `pnpm build`) |
 
-Lighthouse (LCP < 2,5 s и CLS < 0,1 за `/` в мобилен профил) върви като част от `scripts/verify.sh M00b`. Ползва Chromium от `pnpm exec playwright install chromium`; отчетите са в `.lighthouseci/`.
+Lighthouse (LCP < 2,5 s и CLS < 0,1 за `/` в мобилен профил, медианата от три пускания) върви като част от `scripts/verify.sh M00b` и в CI чрез `scripts/lighthouse.mjs` (Lighthouse 13 и `chrome-launcher`); праговете са в `lighthouserc.json`. Ползва Chromium на Playwright: локално от `pnpm exec playwright install chromium`, а в облачната сесия от `PW_CHROMIUM_EXECUTABLE`. Отчетите са в `.lighthouseci/reports/`. Пускане на ръка срещу работещ сървър: `node scripts/lighthouse.mjs --url=http://127.0.0.1:3000/`.
 
 ## 9. Визуална регресия
 

diff --git a/docs/adr/0001-stack.md b/docs/adr/0001-stack.md
@@ -23,7 +23,7 @@
 | Тестове | `vitest` | 5.0.5 | Конфигурацията е `vitest.config.mts` (ESM за родния зареждач на Vite) |
 | Тестове | `@playwright/test`, `@axe-core/playwright` | 1.64.1, 4.14.0 | Проекти `desktop-chromium`, `mobile-chromium` и `mobile-webkit` (само при `CI=true`) |
 | Типове | `@types/node`, `@types/react`, `@types/react-dom` | 24.19.2, 19.3.0, 19.3.0 | `@types/node` следва Node 24 LTS |
-| Сайт (M00b) | `tailwindcss`, `@tailwindcss/postcss`; `@base-ui/react`; `class-variance-authority`, `clsx`, `tailwind-merge`; `@fontsource/gloock`, `@fontsource-variable/schibsted-grotesk`, `@fontsource/noto-serif-display`; `@lhci/cli` (за разработка) | 4.3.3; 1.9.0; 0.7.1, 2.1.1, 3.7.0; 5.3.0; 0.15.1 | Дизайн системата, шрифтовете (OFL, през `next/font/local`) и Lighthouse CI. Причините и отклоненията са в [ADR 0006](0006-design-system.md). Нито един от пакетите няма install скрипт |
+| Сайт (M00b) | `tailwindcss`, `@tailwindcss/postcss`; `@base-ui/react`; `class-variance-authority`, `clsx`, `tailwind-merge`; `@fontsource/gloock`, `@fontsource-variable/schibsted-grotesk`, `@fontsource/noto-serif-display`; `lighthouse`, `chrome-launcher` (за разработка) | 4.3.3; 1.9.0; 0.7.1, 2.1.1, 3.7.0; 5.3.0; 13.4.1, 1.2.1 | Дизайн системата, шрифтовете (OFL, през `next/font/local`) и Lighthouse за `/` (`scripts/lighthouse.mjs`). Причините и отклоненията са в [ADR 0006](0006-design-system.md). Нито един от пакетите няма install скрипт |
 | База данни (M01) | `drizzle-orm`, `drizzle-kit` | 1.0.0-rc.4 | Drizzle 1.0 RC по план §3.1 с точна версия: последната RC, по-стара от един ден при M01. Миграциите са в новия формат на 1.0 (`drizzle/<време>_<име>/migration.sql` + `snapshot.json`); `drizzle-kit check` проверява миграции от паралелни клонове. Резерва при блокираща грешка: 0.45.4 (план §3.1) |
 | База данни (M01) | `pg`, `@types/pg` | 8.23.1, 8.23.1 | Драйверът node-postgres за Drizzle (`drizzle-orm/node-postgres`): пул за всяка роля с `statement_timeout` 2 s |
 | Скриптове (M01) | `tsx` | 4.23.15 | Пуска TypeScript скриптовете `pnpm db:*` и `pnpm fixtures:generate` без отделна компилация |

diff --git a/docs/plan/questions/M00b.md b/docs/plan/questions/M00b.md
@@ -30,3 +30,27 @@ All three pass the contrast checks in `src/design/contrast.test.ts`, and the sta
 **Proposed default:** option 1, jade green (recorded in `docs/adr/0006-design-system.md`).
 
 **Answer:** (filled in by the owner)
+
+## 2026-10-17 — M00b — Budgets and the theme without JavaScript
+
+**Question:** plan §5.8 (c) says a budget threshold is not raised without the owner's decision once it is recorded. M00b set three defaults around the budgets and the theme that the owner has not confirmed yet. Do you accept them?
+
+**(a) The `/styleguide` JavaScript budget.** The developer page shows every overlay component at once and loads 240.5 kB (gzip) against the 170 kB of a content route.
+
+1. Keep 250 kB for this `noindex` developer page only (every other route stays at 170 kB).
+2. Leave `/styleguide` out of production builds and out of the budget.
+3. Split the overlay demos into their own pages so each fits 170 kB.
+
+**(b) How Lighthouse slows the page down.** Lighthouse's simulated throttling (Lantern) estimates LCP 2.78 s on `/` from the local server, because its pessimistic graph counts async scripts that have finished long before the real paint. With applied throttling (`throttlingMethod: devtools`: slow 4G, 4× CPU, mobile profile) LCP is about 1.7–1.9 s and CLS 0. The 2.5 s threshold is unchanged.
+
+1. Keep `devtools` throttling.
+2. Go back to simulated throttling and make `/` fit 2.5 s under Lantern (smaller hero, fewer scripts before LCP).
+
+**(c) The manual theme choice without JavaScript.** The server cannot read the theme cookie without making every route dynamic (Cache Components), so a small script in `<head>` applies the choice before the first paint. With JavaScript turned off the page follows the system theme and the theme switch does nothing. The Done-when test title still says "the server renders it without a flash"; the test checks `data-theme` and `theme-color` when `<body>` first appears.
+
+1. Accept the head script (the page still never flashes when JavaScript runs).
+2. Render the theme on the server and accept dynamic rendering for every route.
+
+**Proposed default:** (a) option 1, (b) option 1, (c) option 1 (recorded in `docs/adr/0006-design-system.md`).
+
+**Answer:** (filled in by the owner)

diff --git a/README.md b/README.md
@@ -111,10 +111,11 @@ Browsers are never installed in a cloud session; mobile WebKit runs only in CI.
 | `pnpm build` / `pnpm start` | Production build and server |
 | `node scripts/check-bundle-budget.mjs` | After `pnpm build`: initial JavaScript per route, gzip, against its budget (170 kB; `/styleguide` 250 kB) |
 | `pnpm tokens:build` | Regenerate `src/design/generated/tokens.css` and `tokens.json` from `src/design/tokens.ts` |
-| `pnpm notices` | Regenerate `THIRD_PARTY_NOTICES.md` and the `/legal/licenses` data from `pnpm licenses list --prod` and `licenses/addenda/` |
+| `pnpm notices` | Regenerate `THIRD_PARTY_NOTICES.md` and the `/legal/licenses` data from `pnpm licenses list --prod`, the shipped build output of `tailwindcss` and `licenses/addenda/` (optional packages such as `sharp`) |
+| `node scripts/lighthouse.mjs --url=<url> [--chrome-path=<chrome>]` | Lighthouse 13 in the mobile profile against a running server: three runs, median LCP and CLS against `lighthouserc.json` |
 | `pnpm screenshots` | Full-page screenshots of the key screens into `docs/screenshots/<milestone>/` (run `pnpm build` first) |
 | `scripts/visual-baselines.sh accept <artifact-dir\|job-log>` | Take the visual regression baselines from a CI run (see the admin guide) |
-| `pnpm e2e` | Playwright E2E tests against `next start` on port 3100 and `pnpm worker` (run `pnpm build` first; server log in `test-results/server.log`). The visual regression (`@visual`) runs only in CI; Lighthouse CI for `/` runs in `scripts/verify.sh M00b` |
+| `pnpm e2e` | Playwright E2E tests against `next start` on port 3100 and `pnpm worker` (run `pnpm build` first; server log in `test-results/server.log`). The visual regression (`@visual`) runs only in CI; Lighthouse for `/` runs in `scripts/verify.sh M00b` |
 | `scripts/db-env-check.sh` | Checks the test database: PostgreSQL ≥ 16, PostGIS ≥ 3.4, UTF-8 locale |
 | `scripts/verify.sh <Mxx\|all>` | The milestone check: one line per step, full log in `.verify/<Mxx>.log` |
 | `docker compose up -d --wait` / `docker compose down` | Start / stop the local services (data stays in named volumes) |
